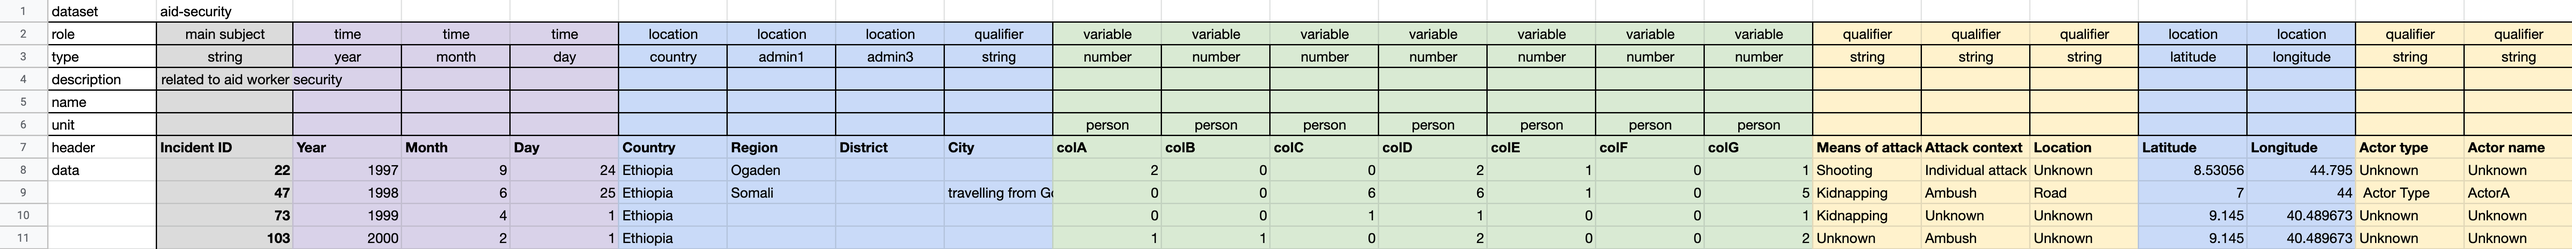
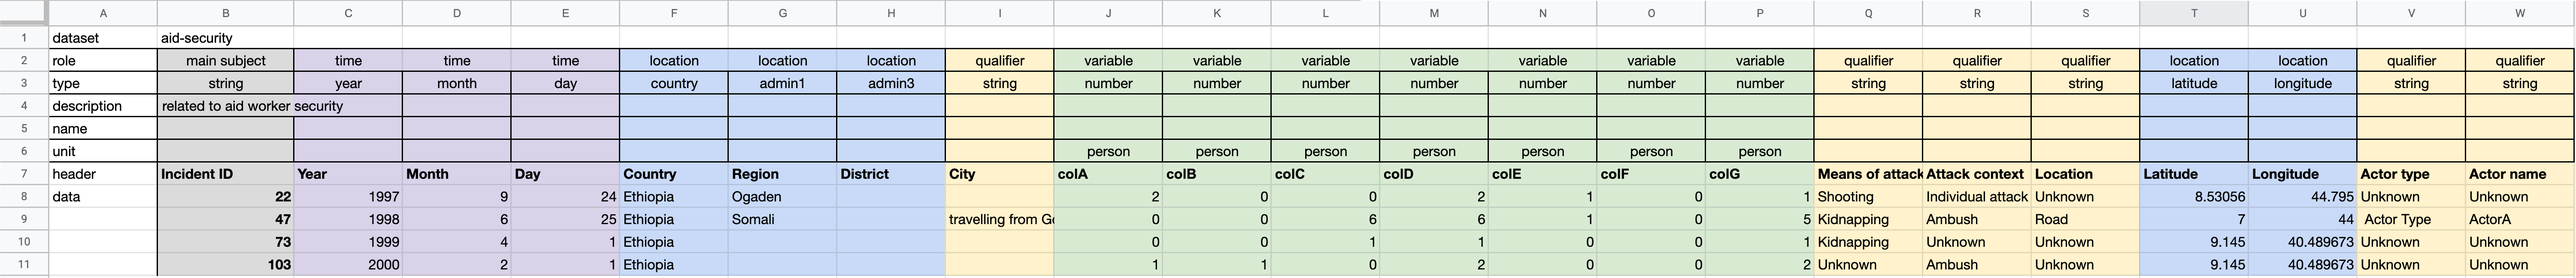
add calrification

Changed region(s): [[0.0, 0.0, 1.0, 1.0], [0.0, 0.8041, 0.0624, 0.8351]]

diff --git a/docs/index.md b/docs/index.md
@@ -169,27 +169,43 @@ An example is shown in the `Get time series data for a variable` section in the 
 
 ### [Crude Oil Production](https://docs.google.com/spreadsheets/d/1XSKOcTcdyI1u72QaQ_ICq1GWgGtyTjt3/edit#gid=517749731)
 ![Crude Oil Production](image_04.png "Crude Oil Production Annotation")
-main subject country
-time regex
-one variable
-3 qualifiers
+
+Annotation Details:
+
+- `main subject` is `country`, which is Column B
+- `time` is specified as a Python date format regex - `%m/%d/%y %H:%M`, column C
+- column C is annotation as `variable`, which is the crude oil production. Note that the we specify
+the `name` (crude_oil_production) as the origin column header `Close` is very generic. Also we specify the units as `barrels`.
+- The spreadsheet has 3 columns annotated as `qualifier`
 
 ### [Crude Oil Price](https://docs.google.com/spreadsheets/d/1DELSd9DaMXvSNZxUG9r8rKtz0n4MMY34/edit#gid=517749731)
 ![Crude Oil Price](image_05.png "Crude Oil Price Annotation")
-time split into year and month
-2 columns with units
+
+Annotation Details:
+
+- `time` is split into 2 columns "C" and "D" which are annotated as `year` and `month` respectively.
+- there are 2 columns annotated as units. This will be interpreted as `unit` being "currency, barrels". For example, "CAD, 100" for row 8.
 
 ### [AID Sample](https://docs.google.com/spreadsheets/d/1Lc_fV2Hls0BZMNvPzScpddTO7tQW1hCyh-BG5wfRsG8/edit#gid=0)
 ![AID Sample](image_06.png)
-main subject string incident id
-multiple location columns
-multiple variables
-multiple qualifiers
-all qualifier, location, time applied to all variables
 
+Annotation Details:
+
+- `main subject` is column B, "Incident ID" which is of type "string".
+- columns "J,K,L,M,N,O" are annotated as `variable`.
+- columns "F,G,H,T,U" are annotated as `location`. These location qualifiers will be applied to all variables
+- columns "Q,R,S,V,W" are annotated as `qualifier`. These qualifiers will be applied to all variables
 
 ### [AID Sample: Variable Specific Qualifiers](https://docs.google.com/spreadsheets/d/1xdranuaX7IB-n0SjcAQsv4mS-4b8W5XB_nZur8hDG4M/edit#gid=0)
+![AID Sample Column Specific Qualifiers](image_07.png)
 
+Annotation Details:
+
+- column "O" is annotated as `qualifier` (qualifier;colA) for column "H" with header "colA". This qualifier will only be applied to column "H"
+- column "P" is annotated as `qualifier` (qualifier;colB|colC) for columns "I" and "J" with headers "colB" and "colC" respectively.
+This qualifier will only be applied to columns "I" and "J".
+- columns "Q,T,U" are also annotated as `qualifier`. These will be applied to all columns annotated as `variable`.
+- `location` columns "D,E,F,R,S" will be applied to all columns annotated as `variable`.
 
 
 
